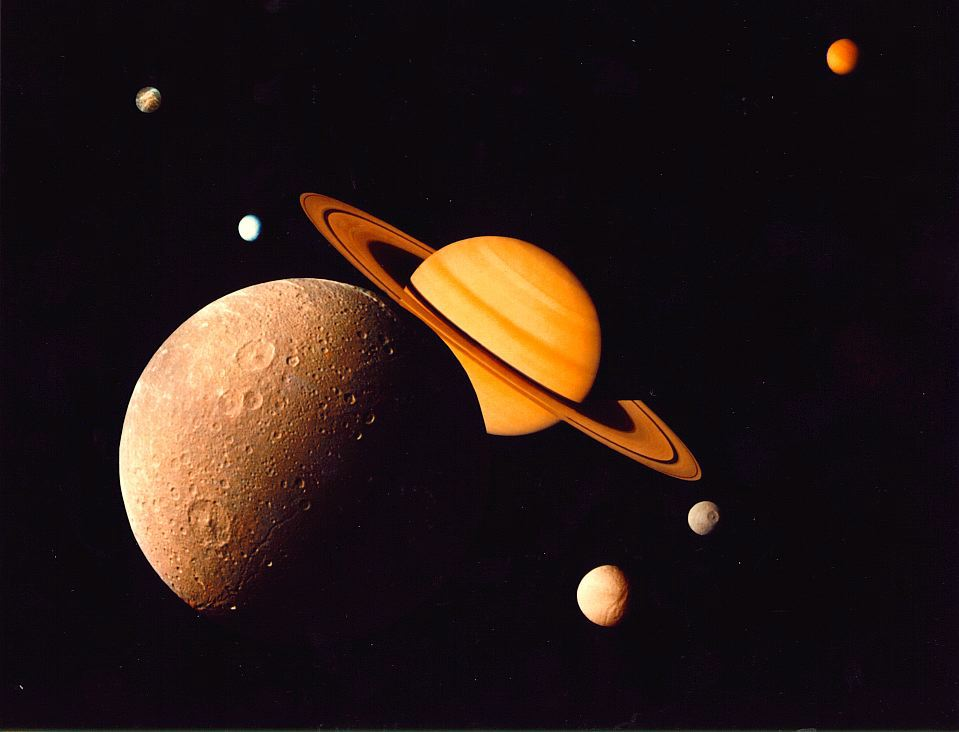
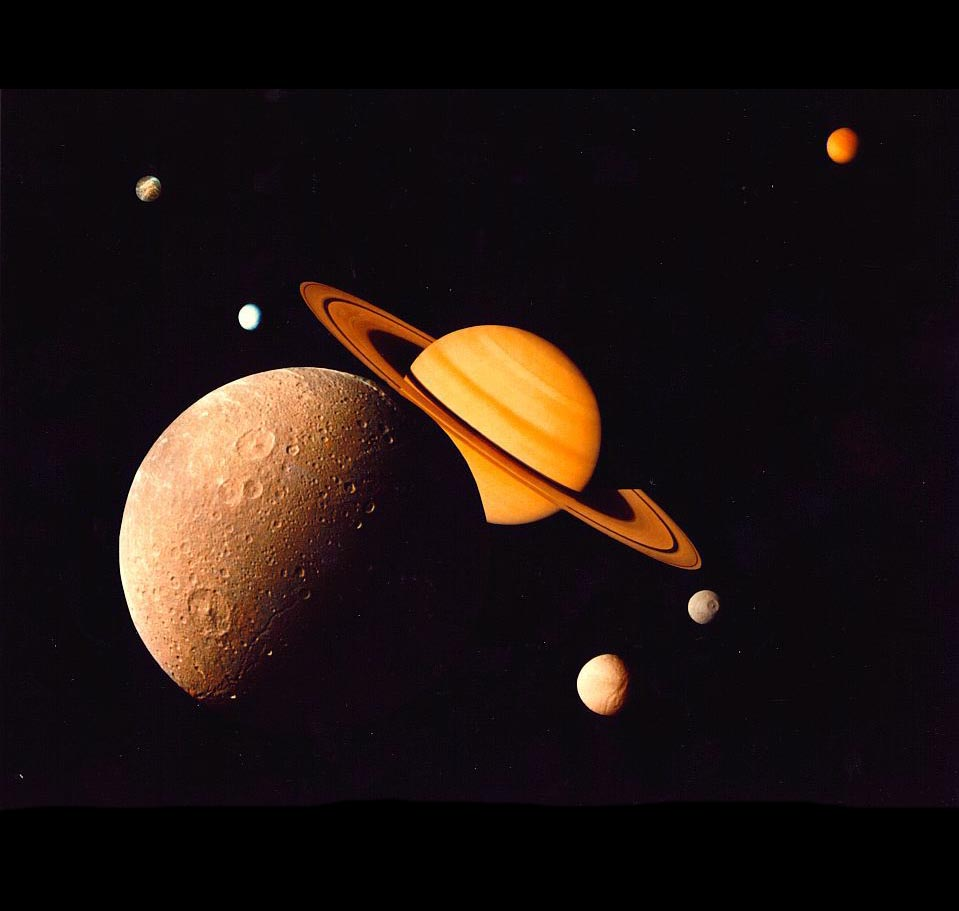
Graphic Design Milestone

diff --git a/index.html b/index.html
@@ -4,6 +4,7 @@
   <meta charset="utf-8">
   <title>Saturn</title>
   <meta name="viewport" content="width=device-width,initial-scale=1">
+  <link href="http://fonts.googleapis.com/css?family=Open+Sans:400,700|Merriweather:400,400italic,700" rel="stylesheet">
   <link href="css/main.css" rel="stylesheet">
   <link href="css/grid.css" rel="stylesheet"> 
   <link href="css/typography.css" rel="stylesheet">  
@@ -20,8 +21,8 @@
 <h1 class="giga gutter push-0">Saturn</h1>    
     
 <nav id="nav" role="navigation">
-    <ul class="nav kilo gutter push-0">
-        <li class="pad-bottom gutter-half"><a href="index.html">Planet</a></li>
+    <ul class="nav kilo gutter push-0 brand island">
+        <li class="pad-bottom gutter-half"><a href="index.html" class="current">Planet</a></li>
         <li class="pad-bottom gutter-half"><a href="moons.html">Moons</a></li>
         <li class="gutter-half"><a href="exploration.html">Exploration</a></li>
     </ul>    
@@ -31,7 +32,7 @@
 
 <main id="main" role="main">
     <div class="colored2">
-        <p class="peta centre gutter-half pad-t-1-2 pad-b-1-2">Saturn is the sixth planet from the Sun</p>
+        <p class="peta centre gutter-half pad-t-1-2 pad-b-1-2 brand">Saturn is the sixth planet from the Sun</p>
     </div>
         
 <div class="grid">
@@ -41,7 +42,7 @@
      
     <div class="unit unit-xs-1 unit-s-1 unit-m-1-2 unit-l-2-3">
         <h2 class="exa gutter">Saturn</h2>
-        <p class="gutter">Saturn is the sixth planet from the Sun and the second largest planet in the Solar System, after Jupiter. Named after the Roman god of agriculture, its astronomical symbol represents the god's sickle.
+        <p class="gutter brand">Saturn is the sixth planet from the Sun and the second largest planet in the Solar System, after Jupiter. Named after the Roman god of agriculture, its astronomical symbol represents the god's sickle.
 </p>
     </div>   
 </div>
@@ -55,7 +56,7 @@
         
 <div class="unit unit-xs-1 unit-s-1-2 unit-m-1-3 unit-l-1-3">
     <figure> 
-        <img src="images/saturn3.jpg">
+        <img src="images/saturn6.jpg">
             <figcaption class="milli gutter-half pad-t-1-2">Saturn is probably best known for the system of planetary rings that makes it visually unique.</figcaption></figure>
 </div>    
  
@@ -97,7 +98,7 @@
          </div>
          <div class="unit unit-xs-1 unit-s-1 unit-m-1-2 unit-l-1-2 pad-top-half">
              <nav>
-                <ul class="nav navfooter kilo">
+                <ul class="nav navfooter kilo brand">
                     <li><a href="index.html">Planet</a></li>
                     <li><a href="moons.html">Moons</a></li>
                     <li><a href="exploration.html">Exploration</a></li>

diff --git a/css/main.css b/css/main.css
@@ -9,7 +9,6 @@ html {
   padding: 0;
   box-sizing: border-box;
 
-  font: normal 100%/1.5 sans-serif;
   -moz-text-size-adjust: 100%;
   -ms-text-size-adjust: 100%;
   -webkit-text-size-adjust: 100%;
@@ -83,17 +82,17 @@ h1 {
 }
 
 .colored {
-    background-color: #CCC;
+    background-color: #D6EBFF;
     padding-top:0;
     overflow: hidden;
 }
 
 .colored2 {
-    background-color: #E2E2E2;
+    background-color: #B5D9FF;
 }
 
 .colored3 {
-    background-color: #EFEFEF;
+    background-color: #E5F1FF;
 }
 
 .nav {
@@ -102,12 +101,26 @@ h1 {
 }
 
 .nav a, 
-.nav a:visited,
-.nav a:active {
+.nav a:link,
+.nav a:visited {
     display: block;
     text-align: left;
     color: #0074D9;
     text-decoration: none;
+}
+
+.nav a:hover,
+.nav a:focus,
+.nav a:active, 
+.nav .current,
+.nav .current:link,
+.nav .current:visited {
+    background-color: #0074D9;
+    color: white;
+    padding: .5rem;
+    border: 2px solid #B5D9FF;
+    border-radius:4px;
+    
 }
 
 label {
@@ -122,22 +135,39 @@ input + label {
 input[type="email"] {
     width: 100%;
     padding: .75rem;
+    background-color: white;
+    border: 2px solid #B5D9FF;
+    border-radius:4px;
 }
 
 input[type="number"] {
     width: 100%;
     padding: .75rem;
+    background-color: white;
+    border: 2px solid #B5D9FF;
+    border-radius:4px;
 }
 
 input[type="text"] {
     width: 100%;
     padding: .75rem;
+     background-color: white;
+    border: 2px solid #B5D9FF;
+    border-radius:4px;
 }
 
+textarea {
+    background-color: white;
+    border: 2px solid #B5D9FF;
+    border-radius:4px;
+}
 
 button {
     font-size: 1.5rem;
-    padding: .25rem;
+    padding: .5rem;
+    background-color: white;
+    border: 2px solid #B5D9FF;
+    border-radius:4px;
 }
 
 .button {
@@ -157,7 +187,13 @@ button {
         }
     
     .navfooter {
-        color: blue;
+        color: #0074D9;
+    }
+    
+    .navfooter a,
+    .navfooter a:link,
+    .navfooter a:visited {
+        display: inline-block;
     }
     
     

diff --git a/exploration.html b/exploration.html
@@ -4,6 +4,7 @@
   <meta charset="utf-8">
   <title>Exploration</title>
   <meta name="viewport" content="width=device-width,initial-scale=1">
+  <link href="http://fonts.googleapis.com/css?family=Open+Sans:400,700|Merriweather:400,400italic,700" rel="stylesheet">
   <link href="css/main.css" rel="stylesheet">
   <link href="css/grid.css" rel="stylesheet"> 
   <link href="css/typography.css" rel="stylesheet">  
@@ -19,10 +20,10 @@
 <div class="colored pad-top-half">    
 <h1 class="giga gutter">Saturn</h1>
 <nav>   
-    <ul class="nav kilo gutter">
+    <ul class="nav kilo gutter brand">
         <li class="pad-bottom gutter-half"><a href="index.html">Planet</a></li>
         <li class="pad-bottom gutter-half"><a href="moons.html">Moons</a></li>
-        <li class="gutter-half"><a href="exploration.html">Exploration</a></li>
+        <li class="gutter-half"><a href="exploration.html" class="current">Exploration</a></li>
     </ul>    
 </nav>
 </div>
@@ -30,7 +31,7 @@
 
 <main role="main">
     <div class="colored2">
-        <p class="peta centre pad-top-half pad-bottom-half">Exploration</p>
+        <h2 class="peta centre pad-top-half pad-bottom-half">Exploration</h2>
     </div>
 
 <div class="colored3">
@@ -91,7 +92,7 @@
 
          <div class="unit unit-xs-1 unit-s-1-2 unit-m-1-2 unit-l-1-2 pad-top">
               <nav>
-                <ul class="nav kilo">
+                <ul class="nav kilo brand">
                     <li><a href="index.html">Planet</a></li>
                     <li><a href="moons.html">Moons</a></li>
                     <li><a href="exploration.html">Exploration</a></li>

diff --git a/moons.html b/moons.html
@@ -4,6 +4,7 @@
   <meta charset="utf-8">
   <title>Moons</title>
   <meta name="viewport" content="width=device-width,initial-scale=1">
+  <link href="http://fonts.googleapis.com/css?family=Open+Sans:400,700|Merriweather:400,400italic,700" rel="stylesheet">
   <link href="css/main.css" rel="stylesheet">
   <link href="css/grid.css" rel="stylesheet">
   <link href="css/typography.css" rel="stylesheet">
@@ -20,9 +21,9 @@
 <h1 class="giga gutter">Saturn</h1>   
     
 <nav>
-    <ul class="nav kilo gutter">
+    <ul class="nav kilo gutter brand">
         <li class="pad-bottom gutter-half"><a href="index.html">Planet</a></li>
-        <li class="pad-bottom gutter-half"><a href="moons.html">Moons</a></li>
+        <li class="pad-bottom gutter-half"><a href="moons.html" class="current">Moons</a></li>
         <li class="gutter-half"><a href="exploration.html">Exploration</a></li>
     </ul>    
 </nav>
@@ -32,7 +33,7 @@
 <main role="main">
     
 <div class="colored2">
-        <p class="peta centre pad-top-half pad-bottom-half">Moons</p>
+        <h2 class="peta centre pad-top-half pad-bottom-half">Moons</h2>
     </div>
     
 <div class="grid">    
@@ -98,7 +99,7 @@
         </div>
          <div class="unit unit-xs-1 unit-s-1 unit-m-1-2 unit-l-1-2 pad-top-half">
              <nav>
-                <ul class="nav navfooter kilo">
+                <ul class="nav navfooter kilo brand">
                     <li><a href="index.html">Planet</a></li>
                     <li><a href="moons.html">Moons</a></li>
                     <li><a href="exploration.html">Exploration</a></li>

diff --git a/css/typography.css b/css/typography.css
@@ -1,5 +1,5 @@
 html {
-  font: normal 100%/1.5 sans-serif;
+  font: normal 100%/1.5 "Merriweather", serif;
 }
 
 h1, h2, h3, h4, h5, h6,
@@ -144,4 +144,9 @@ sub {
 .gutter-double, .gutter-2 {
   padding-left: 3.0000rem;
   padding-right: 3.0000rem;
+}
+
+h1, h2, h3, h4, h5, h6,
+.brand {
+  font-family:'Open Sans', sans-serif;
 }
